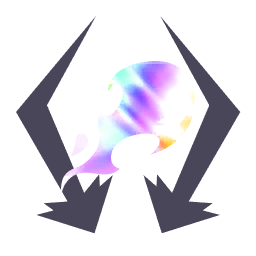
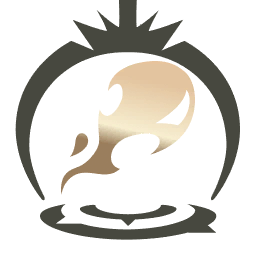
物法皆修重做并默认启用；升级：幽灵骑士改为黄金；修正与现有图标重复的两个敌方图标
- 我方物法皆修：你的力量与敏捷同时作用于伤害和格挡（敏捷按原版力量的条件加到自己的攻击伤害，力量按原版敏捷的条件加到自己的格挡）；战斗开始时获得 1 点力量和 1 点敏捷。配置版本 45，迁移一次转为默认启用。敌方物法皆修不变。
- 升级：幽灵骑士稀有度改为黄金。
- 图标：棱彩幽灵骑士与“珠光护手”、棘刺蟾蜍与“濒死狂宴”的图标完全重复（此前按图层组合反推撞图漏检）。改为按轮廓比对重选：幽灵骑士为黄金“灵火幽影”配“冠冕光环”，棘刺蟾蜍为棱彩“护盾”配“六角星框”。

验证：0.111.0 / 0.107.1 定向测试通过（配置迁移、补丁声明、存档属性/补丁/静态状态清单、本地化键、敌方图标注册），内容校验与 TXT 同步通过。未做游戏内与联机实测。

diff --git a/HextechRunes/src/Runes/MasterOfDualityRune.cs b/HextechRunes/src/Runes/MasterOfDualityRune.cs
@@ -4,29 +4,50 @@ public sealed class MasterOfDualityRune : HextechRelicBase
 {
 	private const decimal TemporaryStatGain = 1m;
 
-	public override async Task AfterCardPlayed(PlayerChoiceContext context, CardPlay cardPlay)
+	protected override IEnumerable<DynamicVar> CanonicalVars =>
+	[
+		new PowerVar<StrengthPower>(1m),
+		new PowerVar<DexterityPower>(1m)
+	];
+
+	protected override IEnumerable<IHoverTip> ExtraHoverTips =>
+	[
+		HoverTipFactory.FromPower<StrengthPower>(),
+		HoverTipFactory.FromPower<DexterityPower>()
+	];
+
+	public override async Task BeforeCombatStart()
 	{
-		if (cardPlay.Card.Owner != Owner)
+		if (Owner.Creature.IsDead)
 		{
 			return;
 		}
 
-		if (HextechCardEffectTypes.IsSkillForEffects(cardPlay.Card))
-		{
-			Flash();
-			await ApplyTemporaryStat<HextechTemporaryStrengthPower, HextechTemporaryStrengthLossPower>(
-				Owner.Creature, isGain: true, Owner.Creature, null);
-		}
-
-		if (IsOwnedAttack(cardPlay.Card))
-		{
-			Flash();
-			await ApplyTemporaryStat<HextechTemporaryDexterityPower, HextechTemporaryDexterityLossPower>(
-				Owner.Creature, isGain: true, Owner.Creature, null);
-		}
+		Flash();
+		await PowerCmd.Apply<StrengthPower>(Owner.Creature, DynamicVars.Strength.BaseValue, Owner.Creature, null);
+		await PowerCmd.Apply<DexterityPower>(Owner.Creature, DynamicVars.Dexterity.BaseValue, Owner.Creature, null);
 	}
 
-	// 我方与敌方物法皆修由同一张牌同时触发，先扣减对向的隐藏临时能力，不让两份并存。
+	// 敏捷也加到自己的攻击伤害上：条件照原版 StrengthPower（持有者是伤害来源、且是有力的攻击）。
+	public override decimal ModifyDamageAdditiveCompat(Creature? target, decimal amount, ValueProp props, Creature? dealer, CardModel? cardSource)
+	{
+		return dealer == Owner.Creature && props.IsPoweredAttack()
+			? Owner.Creature.GetPowerAmount<DexterityPower>()
+			: 0m;
+	}
+
+	// 力量也加到自己的格挡上：条件照原版 DexterityPower（来源牌归持有者，无来源牌时目标是持有者，且是有力的格挡）。
+	public override decimal ModifyBlockAdditive(Creature target, decimal block, ValueProp props, CardModel? cardSource, CardPlay? cardPlay)
+	{
+		bool ownsBlock = cardSource != null
+			? cardSource.Owner?.Creature == Owner.Creature
+			: target == Owner.Creature;
+		return ownsBlock && props.IsPoweredCardOrMonsterMoveBlock()
+			? Owner.Creature.GetPowerAmount<StrengthPower>()
+			: 0m;
+	}
+
+	// 敌方物法皆修用的临时力量/敏捷增减（我方新版不再使用）。施加前先扣减对向的隐藏临时能力，不让两份并存。
 	// 并存时任一份被净化、转移或提前移除，另一份回合末的回收就会变成永久的力量/敏捷变化。
 	// 施加减益一侧遇到人工制品时仍走原施加路径，由人工制品整体抵挡，不去扣减增益。
 	internal static async Task ApplyTemporaryStat<TGain, TLoss>(

diff --git a/HextechRunes/src/Config/HextechRuneConfiguration.Migration.cs b/HextechRunes/src/Config/HextechRuneConfiguration.Migration.cs
@@ -52,7 +52,9 @@ internal static partial class HextechRuneConfiguration
 		// 我方吸血习性（原死亡收割，v23 默认禁用）转为默认启用。
 		new(43, [ typeof(DeathHarvestRune) ], []),
 		// 0.9.9：俯冲轰炸、量子计算与升级势不可当/火焰屏障/狱火/抉择，抉择（只我方）转为默认禁用。
-		new(44, [], [ typeof(DiveBomberRune), typeof(QuantumComputingRune), typeof(JuggernautUpgradeRune), typeof(FlameBarrierUpgradeRune), typeof(InfernoUpgradeRune), typeof(DecisionsDecisionsUpgradeRune) ])
+		new(44, [], [ typeof(DiveBomberRune), typeof(QuantumComputingRune), typeof(JuggernautUpgradeRune), typeof(FlameBarrierUpgradeRune), typeof(InfernoUpgradeRune), typeof(DecisionsDecisionsUpgradeRune) ]),
+		// 物法皆修（只我方）重做为“力量与敏捷同时作用于伤害和格挡，开局各 +1”，转为默认启用。
+		new(45, [ typeof(MasterOfDualityRune) ], [])
 	];
 
 	/// <summary>敌方海克斯默认禁用迁移:只迁移一次,之后尊重玩家手动开启。</summary>

diff --git a/HextechRunes/src/Content/HextechPlayerRuneRegistry.cs b/HextechRunes/src/Content/HextechPlayerRuneRegistry.cs
@@ -274,7 +274,7 @@ internal static class HextechPlayerRuneRegistry
 		Rune<InfernalConduitRune>(HextechRarityTier.Prismatic, tagKey: "OUTPUT"),
 		Rune<DualWieldRune>(HextechRarityTier.Prismatic, tagKey: "OUTPUT"),
 		Rune<GoliathRune>(HextechRarityTier.Prismatic),
-		Rune<MasterOfDualityRune>(HextechRarityTier.Prismatic, flags: PlayerRuneFlags.Disabled),
+		Rune<MasterOfDualityRune>(HextechRarityTier.Prismatic),
 		Rune<HandOfBaronRune>(HextechRarityTier.Prismatic, tagKey: "SURVIVAL"),
 		Rune<CantTouchThisRune>(HextechRarityTier.Prismatic, tagKey: "SURVIVAL"),
 		Rune<QueenRune>(HextechRarityTier.Prismatic),

diff --git a/HextechRunes/src/Content/HextechMonsterHexRegistry.cs b/HextechRunes/src/Content/HextechMonsterHexRegistry.cs
@@ -159,7 +159,7 @@ internal static class HextechMonsterHexRegistry
 		Monster<VineShamblerHex>(MonsterHexKind.VineShambler, HextechRarityTier.Gold),
 		Monster<SpinyToadHex>(MonsterHexKind.SpinyToad, HextechRarityTier.Prismatic),
 		Monster<ScrollOfBitingHex>(MonsterHexKind.ScrollOfBiting, HextechRarityTier.Prismatic),
-		Monster<SpectralKnightHex>(MonsterHexKind.SpectralKnight, HextechRarityTier.Prismatic),
+		Monster<SpectralKnightHex>(MonsterHexKind.SpectralKnight, HextechRarityTier.Gold),
 		Monster<OwlMagistrateHex>(MonsterHexKind.OwlMagistrate, HextechRarityTier.Gold)
 	];
 

diff --git a/HextechRunes/src/Config/HextechRuneConfiguration.cs b/HextechRunes/src/Config/HextechRuneConfiguration.cs
@@ -3,7 +3,7 @@ namespace HextechRunes;
 internal static partial class HextechRuneConfiguration
 {
 	private const string ConfigFileName = "rune_config.json";
-	private const int CurrentConfigVersion = 44;
+	private const int CurrentConfigVersion = 45;
 	// v15(0.8.4):一次性强制重置——旧版本配置载入时整体丢弃回默认(含禁用池/数量/权重/重随/价格/总开关)。
 	private const int ForceResetBelowConfigVersion = 15;
 	private const int HexActCount = 3;

diff --git a/HextechRunes/src/HextechTypes.cs b/HextechRunes/src/HextechTypes.cs
@@ -166,6 +166,6 @@ internal enum MonsterHexKind
 	VineShambler = 156,       // 升级：藤蔓蹒跚者（黄金）
 	SpinyToad = 157,          // 升级：棘刺蟾蜍（棱彩）
 	ScrollOfBiting = 158,     // 升级：咬人卷轴（棱彩）
-	SpectralKnight = 159,     // 升级：幽灵骑士（棱彩）
+	SpectralKnight = 159,     // 升级：幽灵骑士（黄金）
 	OwlMagistrate = 160       // 升级：猫头鹰法官（黄金）
 }
